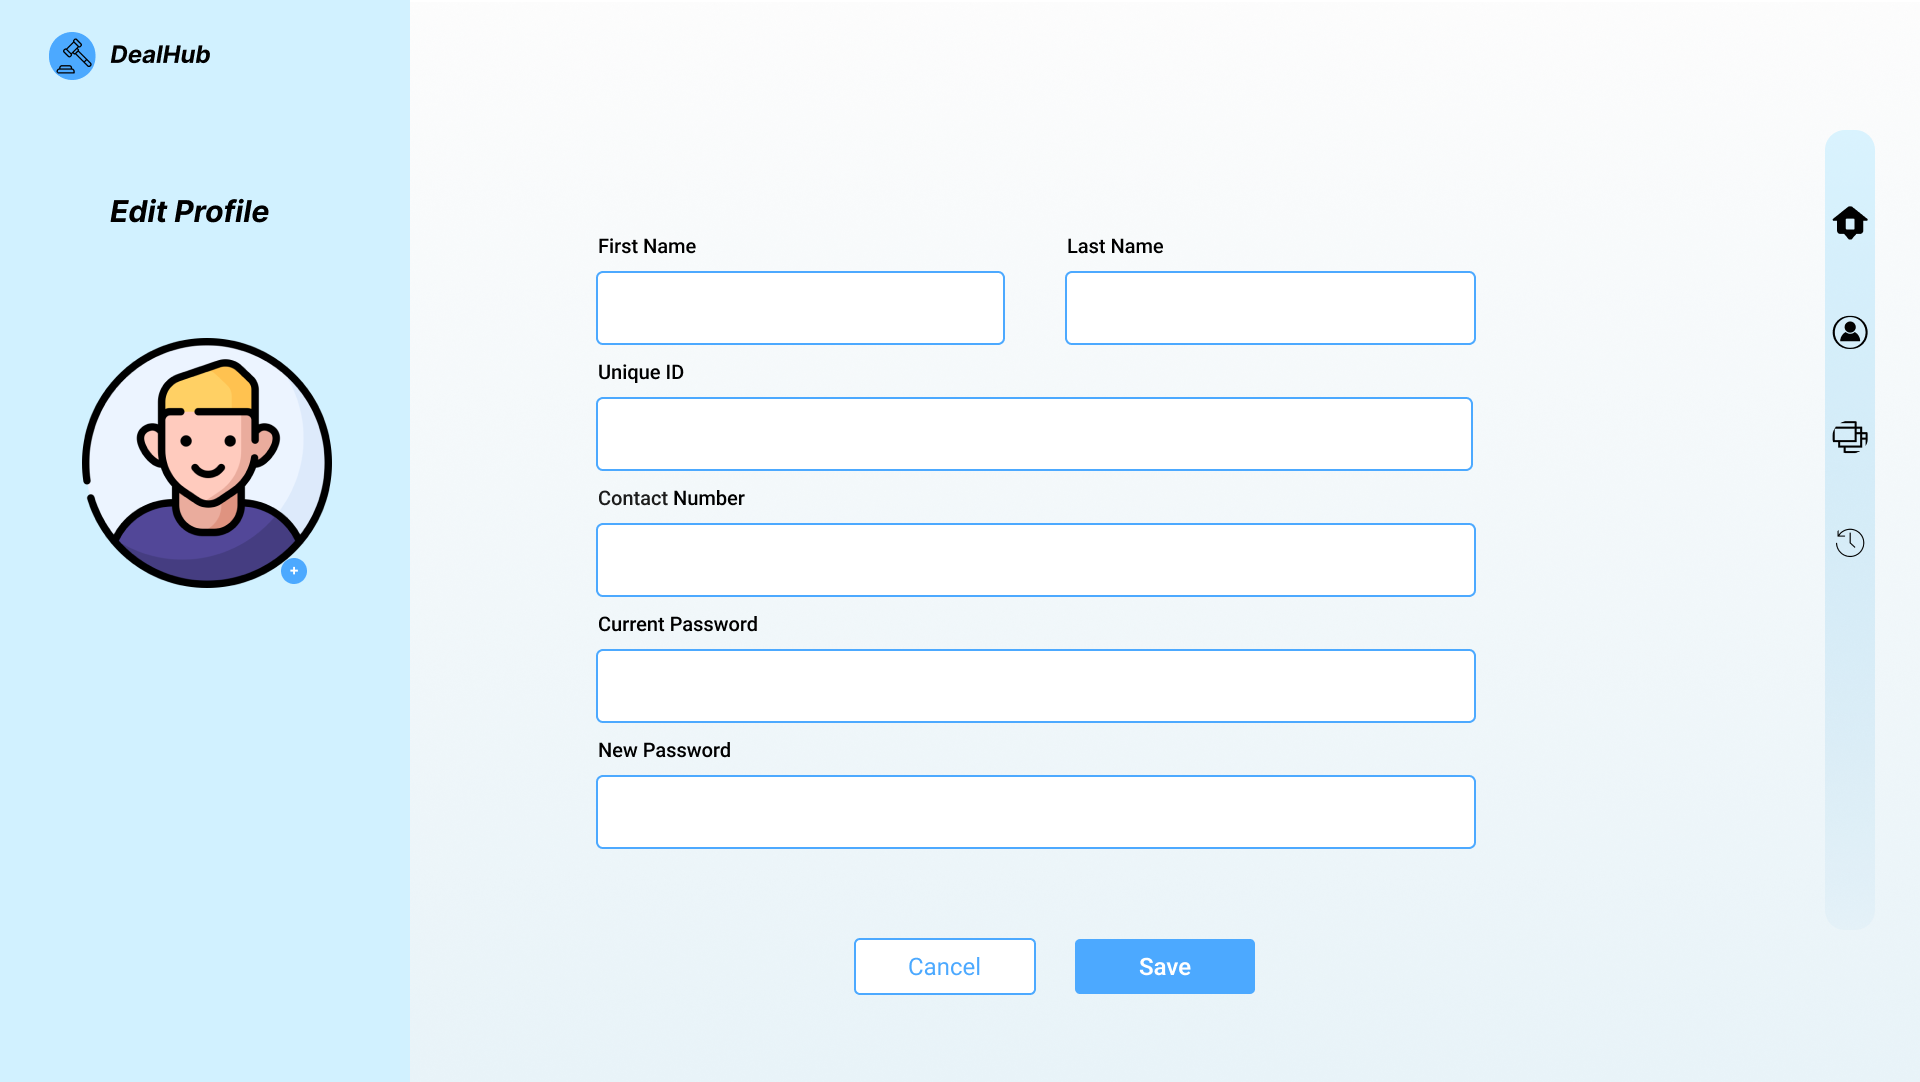
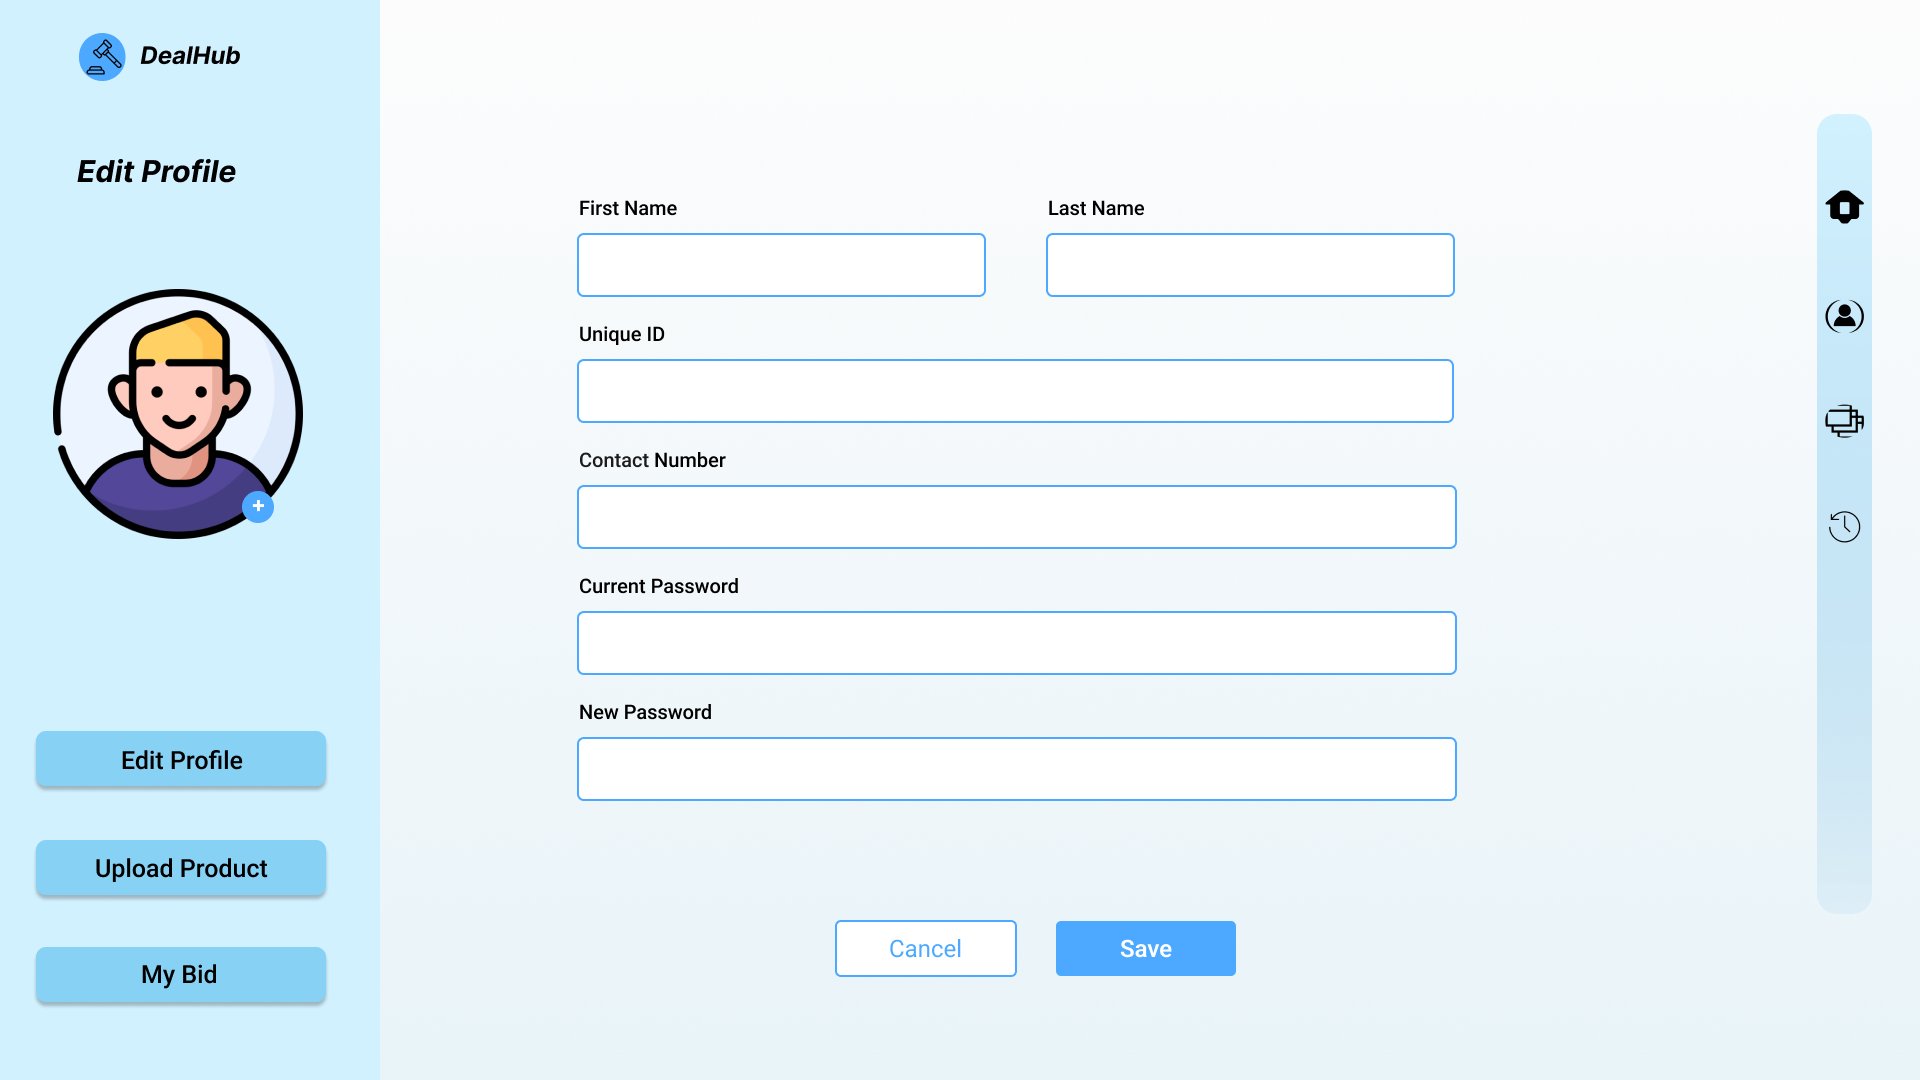
small changes and fug fix

diff --git a/src/main/java/com/dealhub/homeController.java b/src/main/java/com/dealhub/homeController.java
@@ -1,14 +1,21 @@
 package com.dealhub;
 
+import javafx.event.ActionEvent;
 import javafx.fxml.FXML;
 import javafx.fxml.FXMLLoader;
 import javafx.fxml.Initializable;
 import javafx.geometry.Insets;
+import javafx.scene.Node;
+import javafx.scene.Parent;
+import javafx.scene.Scene;
+import javafx.scene.control.Button;
+import javafx.scene.control.Label;
 import javafx.scene.image.Image;
 import javafx.scene.image.ImageView;
 import javafx.scene.layout.AnchorPane;
 import javafx.scene.layout.GridPane;
 import javafx.scene.layout.VBox;
+import javafx.stage.Stage;
 
 import java.io.File;
 import java.io.FileNotFoundException;
@@ -31,18 +38,55 @@ public class homeController implements  Initializable{
     private GridPane roomContainer;
     @FXML
     private ImageView homeImage;
-    Image photo = new Image(Objects.requireNonNull(getClass().getResourceAsStream("homePageWithoutLogin.png")));
-
+    @FXML
+    private Button editProfileBtn;
+    @FXML
+    private Button homeLoginBtn;
+    @FXML
+    private Label logedinUserLabel;
+    Image photo1 = new Image(Objects.requireNonNull(getClass().getResourceAsStream("homePageWithoutLogin.png")));
+    Image photo2 = new Image(Objects.requireNonNull(getClass().getResourceAsStream("homePageWithLogin.png")));
     Connection connection = null;
     String jdbcUrl = "jdbc:mysql://localhost:3306/dealhub";
     String username = "root";
     String password = "";
     List<itemPost> post;
 
+    @FXML
+    public void setHomeLoginBtn(ActionEvent event) throws IOException {
+        try {
+            FXMLLoader fxmlLoader = new FXMLLoader(loginApplication.class.getResource("login.fxml"));
+            Parent root = (Parent) fxmlLoader.load();
+            Stage stage = new Stage();
+            stage = (Stage) ((Node) event.getSource()).getScene().getWindow();
+            stage.setScene(new Scene(root));
+            stage.show();
+
+        } catch (Exception ignored) {
+        }
+
+    }
+
+
+    @FXML
+    public void setEditProfileBtn(ActionEvent event) throws IOException {
+        try {
+            FXMLLoader fxmlLoader = new FXMLLoader(loginApplication.class.getResource("myProfile.fxml"));
+            Parent root = (Parent) fxmlLoader.load();
+            Stage stage = new Stage();
+            stage = (Stage) ((Node) event.getSource()).getScene().getWindow();
+            stage.setScene(new Scene(root));
+            stage.show();
+
+        } catch (Exception ignored) {
+        }
+
+    }
+
+
 
     @Override
     public void initialize(URL url, ResourceBundle resourceBundle) {
-
 
 
         try {
@@ -57,6 +101,32 @@ public class homeController implements  Initializable{
         int col = 0;
         int row = 1;
 
+        _AUserLoginCheck uLoginCheck = new _AUserLoginCheck();
+
+        System.out.println(uLoginCheck.getuLId()+"balle balle");
+
+
+        if(uLoginCheck.getuLId() != null){
+            Statement statement = null;
+            try {
+                statement = connection.createStatement();
+                String sql = "SELECT * FROM `userdata` WHERE 1";
+                ResultSet resultSet = statement.executeQuery(sql);
+
+                while (resultSet.next()){
+                    homeImage.setImage(photo2);
+                    String logedinUName = resultSet.getString("first_name");
+                    logedinUserLabel.setText(logedinUName);
+
+                }
+            } catch (SQLException e) {
+                throw new RuntimeException(e);
+            }
+
+        }else {
+            homeImage.setImage(photo1);
+        }
+
 
 
         try{
@@ -65,6 +135,7 @@ public class homeController implements  Initializable{
                 fxmlLoader.setLocation(getClass().getResource("item.fxml"));
                 VBox vBox = null;
                 vBox = fxmlLoader.load();
+
 
                 itemController itemController = fxmlLoader.getController();
                 itemController.setData(posts);

diff --git a/src/main/java/com/dealhub/editProfileController.java b/src/main/java/com/dealhub/editProfileController.java
@@ -47,7 +47,14 @@ public class editProfileController implements Initializable {
     @FXML
     private TextField uID;
     @FXML
+    private Button myProfile;
+    @FXML
     private Label passVerify;
+    @FXML
+    private Button myBidBtn;
+    @FXML
+    private Button uploadProductsBtn;
+
 
     @FXML
     String searchId, firstName, lastName, oPass = "", conPass = "", garbage4 = "";
@@ -148,6 +155,7 @@ public class editProfileController implements Initializable {
             } catch (SQLException e) {
                 e.printStackTrace();
             }
+
         } else if (newPass.getText().isEmpty()) {
             passVerify.setText("Please provide your Password");
         } else {
@@ -178,6 +186,36 @@ public class editProfileController implements Initializable {
     }
 
     @FXML
+    public void setMyProfile() throws IOException {
+        FXMLLoader secondLoader = new FXMLLoader(getClass().getResource("myProfile.fxml"));
+        Parent secondSceneRoot = secondLoader.load();
+        Scene secondScene = new Scene(secondSceneRoot);
+
+        Stage primaryStage = (Stage) homeBtn.getScene().getWindow();
+        primaryStage.setScene(secondScene);
+
+    }
+    @FXML
+    public void setMyBidBtn() throws IOException {
+        FXMLLoader secondLoader = new FXMLLoader(getClass().getResource("myProfile.fxml"));
+        Parent secondSceneRoot = secondLoader.load();
+        Scene secondScene = new Scene(secondSceneRoot);
+
+        Stage primaryStage = (Stage) homeBtn.getScene().getWindow();
+        primaryStage.setScene(secondScene);
+
+    }
+    @FXML
+    public void setUploadProductsBtn() throws IOException {
+        FXMLLoader secondLoader = new FXMLLoader(getClass().getResource("uploadProduct.fxml"));
+        Parent secondSceneRoot = secondLoader.load();
+        Scene secondScene = new Scene(secondSceneRoot);
+
+        Stage primaryStage = (Stage) homeBtn.getScene().getWindow();
+        primaryStage.setScene(secondScene);
+
+    }
+    @FXML
     public void homeButtonPress() throws IOException {
         FXMLLoader secondLoader = new FXMLLoader(getClass().getResource("home.fxml"));
         Parent secondSceneRoot = secondLoader.load();
@@ -187,6 +225,7 @@ public class editProfileController implements Initializable {
         primaryStage.setScene(secondScene);
 
     }
+
 
     @Override
     public void initialize(URL url, ResourceBundle resourceBundle) {

diff --git a/src/main/java/com/dealhub/myProfileController.java b/src/main/java/com/dealhub/myProfileController.java
@@ -33,6 +33,17 @@ public class myProfileController implements Initializable{
     private Button roomBtn;
     @FXML
     private Button recentBtn;
+    @FXML
+    private Button myBidBtn;
+
+    @FXML
+    private Button myProfile;
+
+    @FXML
+    private Button searchBt;
+
+    @FXML
+    private Button uploadProductsBtn;
 
     @FXML
     public void goToEditProfile() throws Exception{
@@ -44,13 +55,14 @@ public class myProfileController implements Initializable{
         primaryStage.setScene(secondScene);
     }
     @FXML
-    public void goToUploadProduct() throws IOException {
-        FXMLLoader secondLoader = new FXMLLoader(getClass().getResource("UploadProduct.fxml"));
+    public void setUploadProductsBtn() throws IOException {
+        FXMLLoader secondLoader = new FXMLLoader(getClass().getResource("uploadProduct.fxml"));
         Parent secondSceneRoot = secondLoader.load();
         Scene secondScene = new Scene(secondSceneRoot);
 
-        Stage primaryStage = (Stage) uploadProduct.getScene().getWindow();
+        Stage primaryStage = (Stage) homeBtn.getScene().getWindow();
         primaryStage.setScene(secondScene);
+
     }
     @FXML
     public void homeButtonPress() throws IOException {

diff --git a/src/main/java/com/dealhub/uploadProductController.java b/src/main/java/com/dealhub/uploadProductController.java
@@ -45,7 +45,7 @@ public class uploadProductController {
 
 
     @FXML
-    private TextArea productDetails;
+    private TextField productDetails;
 
     @FXML
     private TextField productName;
@@ -169,11 +169,21 @@ public class uploadProductController {
 
                 int rowsAffected = preparedStatement.executeUpdate();
                 System.out.println(rowsAffected + " row(s) inserted.");
+
+
+                FXMLLoader secondLoader = new FXMLLoader(getClass().getResource("home.fxml"));
+                Parent secondSceneRoot = secondLoader.load();
+                Scene secondScene = new Scene(secondSceneRoot);
+
+                Stage primaryStage = (Stage) homeBtn.getScene().getWindow();
+                primaryStage.setScene(secondScene);
             } catch (SQLException e) {
                 e.printStackTrace();
+            } catch (IOException e) {
+                throw new RuntimeException(e);
             }
 
-            try {
+        try {
                 if (connection != null) {
                     connection.close();
                     System.out.println("Connection closed.");

diff --git a/src/main/java/com/dealhub/uploadProductApplication.java b/src/main/java/com/dealhub/uploadProductApplication.java
@@ -8,7 +8,7 @@ import javafx.stage.Stage;
 public class uploadProductApplication extends Application {
     @Override
     public void start(Stage stage) throws Exception {
-        FXMLLoader fxmlLoader = new FXMLLoader(loginApplication.class.getResource("UploadProduct.fxml"));
+        FXMLLoader fxmlLoader = new FXMLLoader(loginApplication.class.getResource("uploadProduct.fxml"));
         Scene scene = new Scene(fxmlLoader.load(), 1920, 1080);
         stage.setTitle("DealHub");
         stage.setScene(scene);

diff --git a/src/main/java/com/dealhub/loginController.java b/src/main/java/com/dealhub/loginController.java
@@ -101,6 +101,10 @@ public class loginController implements Initializable {
                 System.out.println(colid + " " + colpass);
                 if (id.equals(colid) && pass.equals(colpass)) {
 
+                    _AUserLoginCheck uLoginCheck = new _AUserLoginCheck();
+
+                    uLoginCheck.setuLId(colid);
+
                     found = true;
                     System.out.println("found");
                     try {

diff --git a/src/main/java/com/dealhub/_AUserLoginCheck.java b/src/main/java/com/dealhub/_AUserLoginCheck.java
@@ -1,0 +1,23 @@
+package com.dealhub;
+
+public class _AUserLoginCheck {
+    public String uLName;
+    public String uLId ;
+
+
+    public String getuLName() {
+        return uLName;
+    }
+
+    public void setuLName(String uLName) {
+        this.uLName = uLName;
+    }
+
+    public String getuLId() {
+        return uLId;
+    }
+
+    public void setuLId(String uLId) {
+        this.uLId = uLId;
+    }
+}
